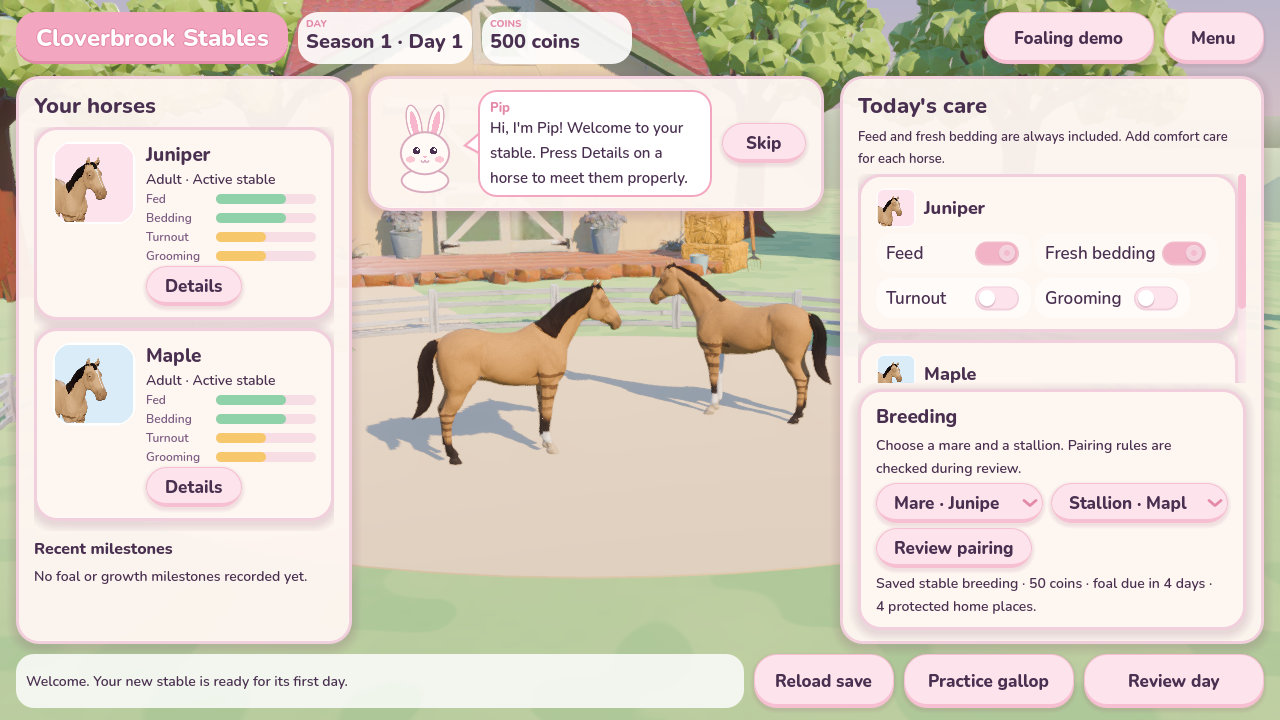
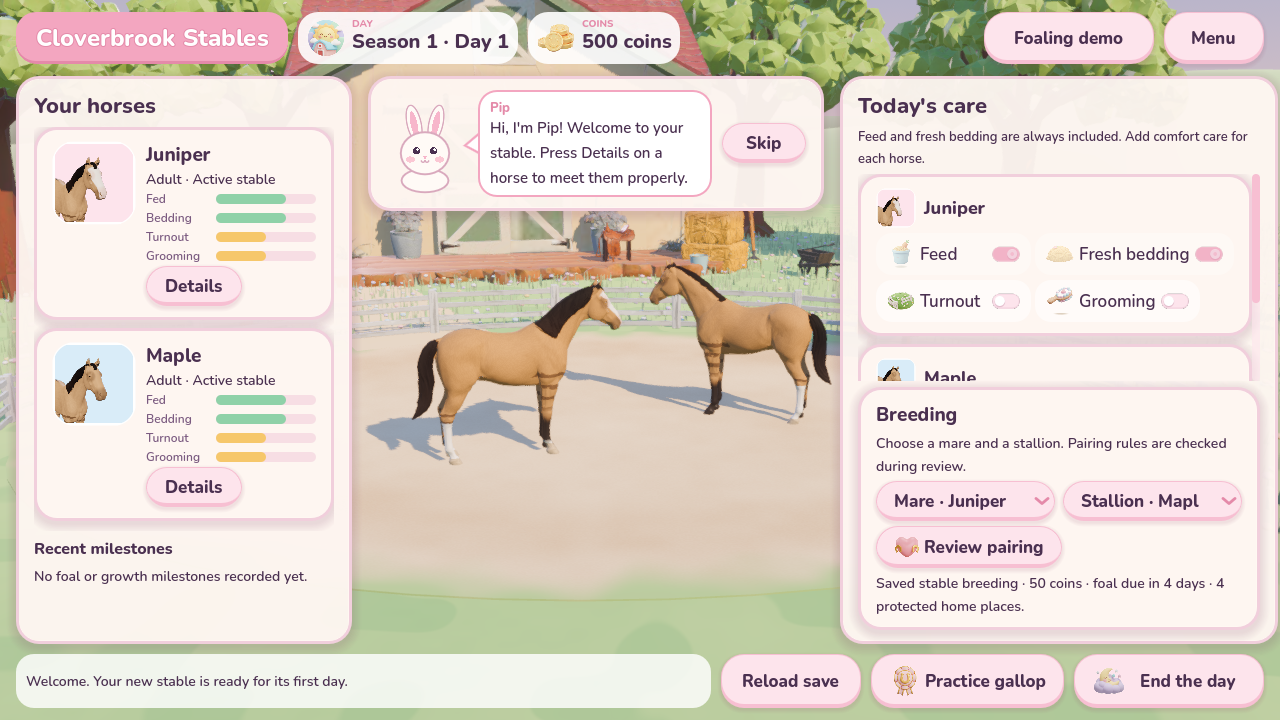
Celebrate each newborn foal with a naming moment
D-012 (P2-01 presentation): after the night card a dialog shows the foal's
portrait in the stall illustration with confetti, its parents and coat, and a
name box that uses the existing rename save. Evidence screenshots refreshed.

Claude-Session: https://claude.ai/code/session_01N8ARS7mN4tQdViRj4KN5GB

diff --git a/game/scripts/Stable/StableDay.Birth.cs b/game/scripts/Stable/StableDay.Birth.cs
@@ -1,0 +1,82 @@
+using System.Linq;
+using Cloverbrook.Domain;
+using Cloverbrook.Game.UI;
+using Godot;
+
+namespace Cloverbrook.Game.Stable;
+
+/// <summary>"A foal is born!" celebration after a saved day (D-012). Presentation only: naming uses the existing rename save.</summary>
+public partial class StableDay
+{
+    private Control _birthOverlay = null!;
+    private Label _birthTitle = null!;
+    private Label _birthText = null!;
+    private Control _birthArt = null!;
+    private LineEdit _birthName = null!;
+    private HorseId? _birthFoal;
+    private CpuParticles2D _confetti = null!;
+
+    private void BuildBirthOverlay(Control root)
+    {
+        _birthOverlay = CozyTheme.Dialog(root, "A foal is born!", 620, out var body, out var buttons, out _birthTitle);
+        _birthArt = CozyTheme.DialogHeader(body, "birth", 576, 220) ?? new Control();
+        _birthText = new Label { AutowrapMode = TextServer.AutowrapMode.WordSmart, CustomMinimumSize = new Vector2(560, 0), HorizontalAlignment = HorizontalAlignment.Center };
+        _birthText.AddThemeFontSizeOverride("font_size", 17);
+        body.AddChild(_birthText);
+        var nameRow = new HBoxContainer { Alignment = BoxContainer.AlignmentMode.Center }; nameRow.AddThemeConstantOverride("separation", 8);
+        _birthName = new LineEdit { PlaceholderText = "Choose a name", MaxLength = 40, CustomMinimumSize = new Vector2(260, 44) };
+        nameRow.AddChild(_birthName);
+        body.AddChild(nameRow);
+        var later = new Button { Text = "Later", CustomMinimumSize = new Vector2(120, 46) };
+        later.Pressed += () => _birthOverlay.Visible = false;
+        buttons.AddChild(later);
+        var name = CozyTheme.WithIcon(new Button { Text = "Name foal", CustomMinimumSize = new Vector2(170, 46) }, "foal", 28);
+        name.Pressed += () =>
+        {
+            if (_birthFoal == null || string.IsNullOrWhiteSpace(_birthName.Text)) return;
+            _birthOverlay.Visible = false;
+            _ = RenameFoalAsync(_birthFoal, _birthName.Text);
+        };
+        buttons.AddChild(name);
+        CozyTheme.FinishDialog(body, buttons);
+
+        _confetti = new CpuParticles2D
+        {
+            Emitting = false, OneShot = true, Amount = 140, Lifetime = 3.2, Explosiveness = 0.85f,
+            EmissionShape = CpuParticles2D.EmissionShapeEnum.Rectangle, EmissionRectExtents = new Vector2(620, 10),
+            Direction = new Vector2(0, 1), Spread = 35, Gravity = new Vector2(0, 260), InitialVelocityMin = 60, InitialVelocityMax = 220,
+            AngularVelocityMin = -360, AngularVelocityMax = 360, ScaleAmountMin = 4, ScaleAmountMax = 8, Position = new Vector2(640, -20),
+        };
+        var colours = new Gradient();
+        colours.SetColor(0, Color.FromHtml("#f7a1bd")); colours.SetColor(1, Color.FromHtml("#fbd36b"));
+        colours.AddPoint(0.33f, Color.FromHtml("#9fd3f5")); colours.AddPoint(0.66f, Color.FromHtml("#c9a7ef"));
+        _confetti.ColorInitialRamp = colours;
+        _birthOverlay.AddChild(_confetti);
+    }
+
+    /// <summary>Show the celebration for the first foal born in a saved day, after the night card fades.</summary>
+    private void CelebrateBirth(StableLifecycleEvent birth)
+    {
+        if (_state == null || !_yard.Wandering) return;
+        var foal = _state.Horses.FirstOrDefault(h => h.HorseId.Equals(birth.HorseId));
+        if (foal == null) return;
+        var mother = birth.RelatedHorseId == null ? null : _state.Horses.FirstOrDefault(h => h.HorseId.Equals(birth.RelatedHorseId));
+        _birthFoal = foal.HorseId;
+        string coat;
+        try { coat = HorseProfiles.For(_state, foal.HorseId).VisibleCoat; } catch { coat = "a lovely coat"; }
+        _birthText.Text = $"{mother?.Name ?? "Your mare"} had a healthy foal!\nParents: {ParentNamesFor(foal, _state)} · Coat: {coat}\nWhat will you call them?";
+        foreach (var old in _birthArt.GetChildren()) old.QueueFree();
+        var portrait = Portrait(foal, 170, Color.FromHtml("#fbe7b0"));
+        var centre = new CenterContainer(); centre.SetAnchorsPreset(Control.LayoutPreset.FullRect);
+        centre.AddChild(portrait);
+        _birthArt.AddChild(centre);
+        _birthName.Text = "";
+        var timer = GetTree().CreateTimer(3.4);
+        timer.Timeout += () =>
+        {
+            _birthOverlay.Visible = true;
+            _confetti.Restart();
+            _birthName.GrabFocus();
+        };
+    }
+}

diff --git a/game/scripts/Stable/StableDay.Hub.cs b/game/scripts/Stable/StableDay.Hub.cs
@@ -84,6 +84,19 @@ public partial class StableDay
                 while (_yard.ElapsedSeconds - ended < after) await ToSignal(GetTree(), SceneTree.SignalName.ProcessFrame);
                 await CaptureFrame(System.IO.Path.Combine(output, name + ".png"));
             }
+            if (OS.GetCmdlineUserArgs().Contains("--hub-birth"))
+            {
+                for (var day = 0; day < 12 && _birthFoal == null; day++)
+                {
+                    var before = _yard.ElapsedSeconds;
+                    while (_yard.ElapsedSeconds - before < 4.2) await ToSignal(GetTree(), SceneTree.SignalName.ProcessFrame);
+                    ShowReview(); ConfirmReviewedDay();
+                    while (_busy) await ToSignal(GetTree(), SceneTree.SignalName.ProcessFrame);
+                }
+                var born = _yard.ElapsedSeconds;
+                while (_yard.ElapsedSeconds - born < 4.4) await ToSignal(GetTree(), SceneTree.SignalName.ProcessFrame);
+                await CaptureFrame(System.IO.Path.Combine(output, "08_birth_celebration.png"));
+            }
             GD.Print("[hub-preview] OK " + output);
             GetTree().Quit(0);
         }

diff --git a/game/scripts/Stable/StableDay.DayFlow.cs b/game/scripts/Stable/StableDay.DayFlow.cs
@@ -110,7 +110,11 @@ public partial class StableDay
             var lifecycleNotice = result.Receipt.LifecycleEvents.Count == 0 ? "" : " " + string.Join(" ", result.Receipt.LifecycleEvents.Select(item => LifecycleText(item, _state)));
             SetStatus(result.Replayed ? "That day was already saved. Your wallet and calendar are up to date." + lifecycleNotice
                 : "Day saved. Your horses' care and the calendar are up to date." + lifecycleNotice);
-            if (!result.Replayed) PlayDayTransition(_state.Header.CalendarDay, result.Receipt.LifecycleEvents.Select(item => LifecycleText(item, _state)).FirstOrDefault());
+            if (!result.Replayed)
+            {
+                PlayDayTransition(_state.Header.CalendarDay, result.Receipt.LifecycleEvents.Select(item => LifecycleText(item, _state)).FirstOrDefault());
+                if (result.Receipt.LifecycleEvents.FirstOrDefault(e => e.Kind == LifecycleEventKind.Birth) is { } birth) CelebrateBirth(birth);
+            }
         }
         catch (Exception ex)
         {

diff --git a/game/scripts/Stable/StableDay.cs b/game/scripts/Stable/StableDay.cs
@@ -332,6 +332,7 @@ public partial class StableDay : Node
         BuildInspectOverlay(root);
         BuildPracticeOverlay(root);
         BuildSaleOverlay(root);
+        BuildBirthOverlay(root);
         BuildRecoveryDialog(root);
     }
 

diff --git a/STATUS.md b/STATUS.md
@@ -41,7 +41,9 @@ Goal: stop the stable looking like a text game. (1) portraits of every horse, (2
 - [x] Title screen rebuilt on the yard with three sample horses (neutral fixtures, so they can walk), big Play button, Extras row (viewer, coat studio). `--smoke-test` keeps its original stage. `--menu-preview=FILE` screenshots it.
 - [x] Illustrated icon set from Meshy text-to-image (3 credits each, `meshy.py image`): feed, bedding, turnout, grooming, coins, day, breeding, gallop, sell, end day, foal. Used on HUD pills, care toggles and main buttons. "Review day" button renamed "End the day". Spent 333/500.
 - [x] Dialog header illustrations (Meshy images, 3 credits each, `game/assets/ui/headers`): breeding (pair portraits sit on the art), details, sale, gallop, day review; birth art ready. `CozyTheme.DialogHeader` + `rounded_image.gdshader`. Spent 351/500.
-- [ ] Next: birth celebration moment, owner-retried bush/planter via the web app.
+- [x] Birth celebration: after the night card, "A foal is born!" dialog with the stall illustration, foal portrait, parents and coat, confetti and a name box (uses the existing rename save). Live play only. `--hub-preview=DIR --foaling-demo --hub-birth` records it.
+- Verified locally at this checkpoint: 214/214 tests, validator OK, game `-warnaserror` build, all three stable captures, main-menu smoke test. Evidence refreshed in `docs/stable/evidence/2026-10-13-hub/`.
+- [ ] Next: owner-retried bush/planter via the web app; further ideas in the hand-off below.
 
 ## Next steps (before D-012)
 1. **`main` branch and Mac install:** `main` is created from this branch once visual CI is green (owner-approved 2026-10-12). Every push to `main` runs `.github/workflows/macos-build.yml`, which uploads `Cloverbrook-Stables-macOS-<run>` (universal, ad-hoc signed, not notarized; see INSTALL.txt inside) to the run's Artifacts. It can also be started by hand from the Actions tab. The owner must make `main` the default branch in GitHub settings.
